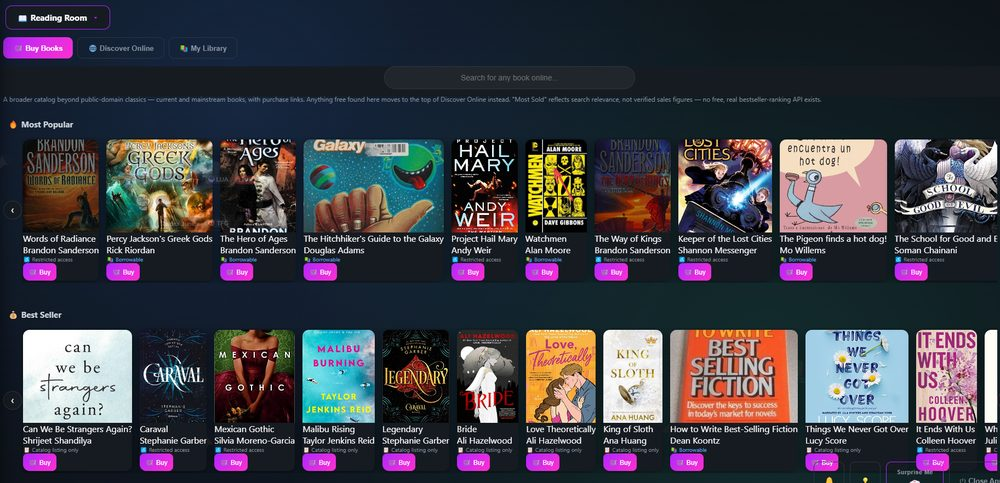
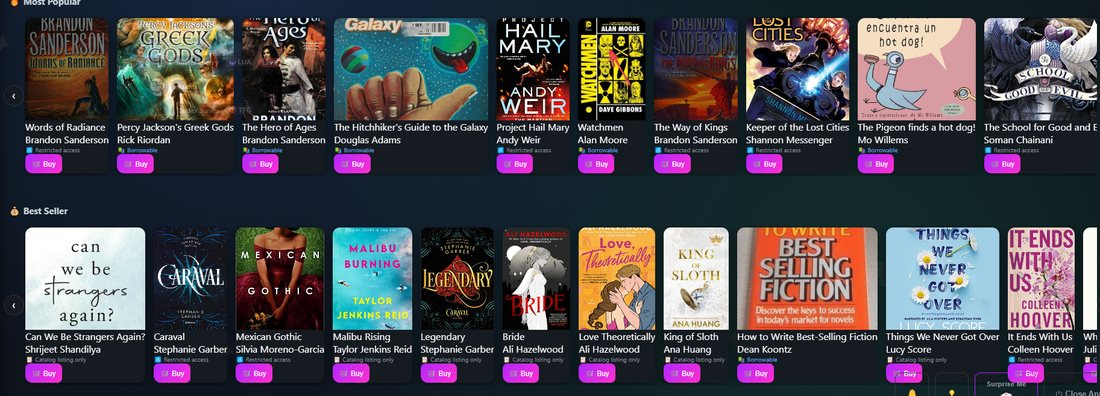
Add files via upload

diff --git a/docs/site-style.css b/docs/site-style.css
@@ -202,6 +202,15 @@ nav a:hover { color: var(--text); }
 }
 
 .pillar-visual--games { height: 280px; }
+
+.pillar-visual--shot { padding: 0; overflow: hidden; }
+.pillar-visual--shot img {
+  width: 100%;
+  height: 100%;
+  object-fit: cover;
+  object-position: center;
+  display: block;
+}
 .mock-grid { display: flex; flex-wrap: wrap; width: 100%; height: 100%; }
 .mock-cover {
   border-radius: 8px;
